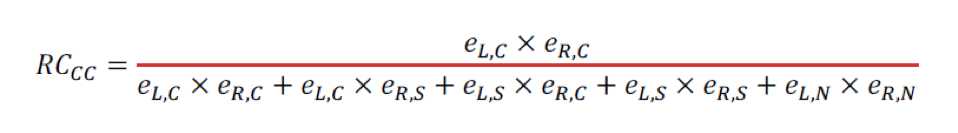
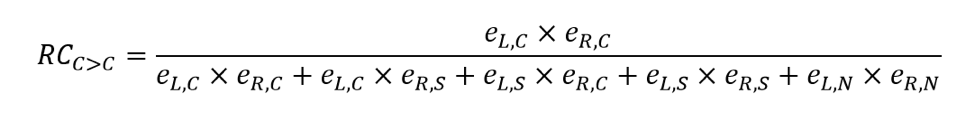
refactor (ui): standardise crosstalk notations

Changed region(s): [[0.1211, 0.55, 0.9687, 0.775], [0.0303, 0.2, 0.9687, 0.6]]

diff --git a/client/src/views/routes/pageHome/banner.tsx b/client/src/views/routes/pageHome/banner.tsx
@@ -31,13 +31,13 @@ export const Banner = ({
 			<p>
 				<b>Example:-</b>
 				<br />
-				If you are interested in the <u>AREG-EGFR</u> interaction in{" "}
+				If you are interested in the <u>AREG&gt;EGFR</u> interaction in{" "}
 				<u>glioblastoma (GBM) and lower-grade glioma (LGG)</u>, then you{" "}
 				select the respective ligand, receptor and cancer types. You can{" "}
 				hover over the individual cells to see the specific values of
 				Relative Crosstalk (<b>RC</b>) scores. The heatmap of the RC
 				scores for AREG-EGFR pair in GBM and LGG shows a{" "}
-				<u>very high SC (stroma-to-cancer) score</u> for this pair,
+				<u>very high S&gt;C (stroma-to-cancer) score</u> for this pair,
 				indicating that tumor infiltrating stromal cells over-express
 				the ligand AREG, activating over-expressed EGFR in cancer cells.
 			</p>

diff --git a/client/src/views/routes/pageAbout.tsx b/client/src/views/routes/pageAbout.tsx
@@ -79,7 +79,7 @@ const PageAbout = () => (
 								estimates the relative complex concentration
 								given all four possible directions of signaling
 								and a normal tissue state, e.g. for
-								cancer-cancer (CC) signaling:
+								cancer-cancer (C&gt;C) signaling:
 								<Image
 									src={require("../../assets/about_formula.png")}
 									alt="relative cross-talk formula"
